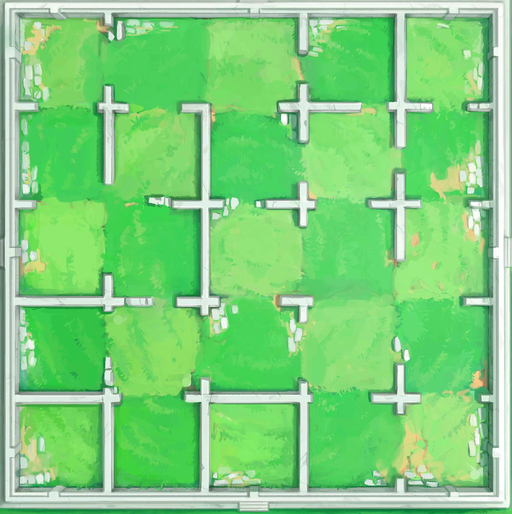
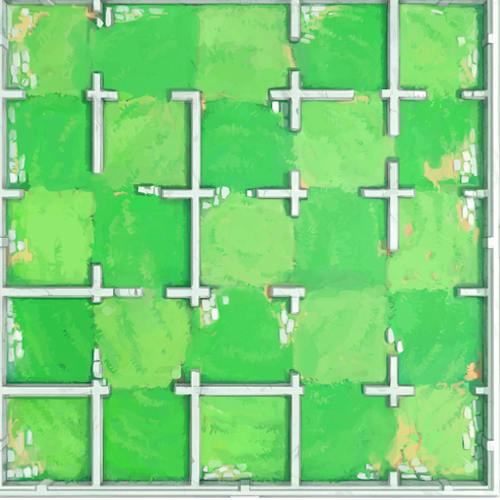
separated the board gui painting into several classes; added the refresh feature to the GUI (and checked that it works).

diff --git a/src/main/java/it/polimi/ingsw/view/clientSide/viewers/toGUI/helperPanels/utilities/BoardGeneralPanel.java b/src/main/java/it/polimi/ingsw/view/clientSide/viewers/toGUI/helperPanels/utilities/BoardGeneralPanel.java
@@ -1,0 +1,135 @@
+package it.polimi.ingsw.view.clientSide.viewers.toGUI.helperPanels.utilities;
+
+import it.polimi.ingsw.view.clientSide.viewCore.data.dataClasses.ViewCell;
+import it.polimi.ingsw.view.exceptions.WrongParametersException;
+
+import java.awt.*;
+
+public class BoardGeneralPanel extends ImagePanel {
+
+    private int xDim;
+    private int yDim;
+
+    private double xLen;
+    private double yLen;
+
+    private static class MyBuildingRepresentation{
+
+        private SubPanel[][] cellMatrix;
+        private String[][] cellStatusMatrix;
+        BoardGeneralPanel parent;
+
+        MyBuildingRepresentation(BoardGeneralPanel parent){
+            this.parent = parent;
+            cellMatrix = new SubPanel[parent.xDim][parent.yDim];
+            cellStatusMatrix = new String[parent.xDim][parent.yDim];
+        }
+
+        String getStatusAt(int x, int y){
+            return cellStatusMatrix[x][y];
+        }
+
+        String getStatusAt(ViewCell cell){
+            return getStatusAt(cell.getX(), cell.getY());
+        }
+
+        void setStatusAt(int x, int y, String status){
+            cellStatusMatrix[x][y] = status;
+        }
+
+        void setStatusAt(ViewCell cell){
+            setStatusAt(
+                    cell.getX(),
+                    cell.getY(),
+                    getCellStatusEncoded(cell)
+            );
+        }
+
+        String getCellStatusEncoded(ViewCell cell){
+            return "l"+cell.getLevel()+"D"+(cell.isDoomed()?"t":"f");
+        }
+
+        SubPanel getPanelAt(int x, int y){
+            return cellMatrix[x][y];
+        }
+
+        SubPanel getPanelAt(ViewCell cell){
+            return getPanelAt(cell.getX(), cell.getY());
+        }
+
+        void setPanelAt(int x, int y, SubPanel panel){
+            cellMatrix[x][y] = panel;
+        }
+
+        void setPanelAt(ViewCell cell){
+            setPanelAt(cell.getX(), cell.getY(), cell.toGUI());
+        }
+
+        void setCell(ViewCell cell){
+            setPanelAt(cell);
+            setStatusAt(cell);
+        }
+
+        boolean isDifferent(ViewCell cell){
+            return !getCellStatusEncoded(cell).equals(getStatusAt(cell));
+        }
+
+        void updateCell(ViewCell cell){
+            if (isDifferent(cell)){
+                System.out.println(cell.toString() + "Is different");
+                System.out.println(getStatusAt(cell));
+                parent.remove(getPanelAt(cell));
+                setCell(cell);
+                parent.addComponent(cell.getX(), cell.getY(), getPanelAt(cell));
+                System.out.println(getStatusAt(cell));
+            }
+        }
+
+    }
+
+    private MyBuildingRepresentation myBuildingRepresentation;
+
+    public void updateCell(ViewCell cell){
+        myBuildingRepresentation.updateCell(cell);
+    }
+
+    public void addComponent(int x, int y, SubPanel panel){
+        if(panel == null) return;
+        add(panel);
+        panel.setMyRapp(xLen, yLen, x*xLen, y*yLen);
+    }
+
+
+    private BoardGeneralPanel(String fileName) {
+        super(1, 1, 0, 0, fileName);
+    }
+
+    private void setXY(int x, int y){
+        xDim = x;
+        yDim = y;
+
+        xLen = ((double)1)/xDim;
+        yLen = ((double)1)/yDim;
+    }
+
+    public static BoardGeneralPanel buildBoard(int xDim, int yDim) throws WrongParametersException {
+        if (xDim!=5 || yDim != 5)
+            throw new WrongParametersException("Wrong board size!!");
+        BoardGeneralPanel ret = new BoardGeneralPanel("/img/board/boardScalata.png");
+        ret.setXY(xDim, yDim);
+        ret.myBuildingRepresentation = new MyBuildingRepresentation(ret);
+        return ret;
+    }
+
+    @Override
+    public Component add(Component c){
+        if(c==null) return null;
+        return super.add(c);
+    }
+
+    @Override
+    public void remove(Component c){
+        if(c==null) return;
+        super.remove(c);
+    }
+}

diff --git a/src/main/java/it/polimi/ingsw/view/clientSide/viewCore/data/dataClasses/ViewBoard.java b/src/main/java/it/polimi/ingsw/view/clientSide/viewCore/data/dataClasses/ViewBoard.java
@@ -3,10 +3,12 @@ package it.polimi.ingsw.view.clientSide.viewCore.data.dataClasses;
 import it.polimi.ingsw.controller.events.ServerSendDataEvent;
 import it.polimi.ingsw.model.Board;
 import it.polimi.ingsw.view.clientSide.viewCore.data.ViewObject;
+import it.polimi.ingsw.view.clientSide.viewers.toGUI.helperPanels.utilities.BoardGeneralPanel;
 import it.polimi.ingsw.view.clientSide.viewers.toGUI.helperPanels.utilities.ImagePanel;
 import it.polimi.ingsw.view.clientSide.viewers.toGUI.helperPanels.utilities.SubPanel;
 import it.polimi.ingsw.view.exceptions.NotFoundException;
 import it.polimi.ingsw.view.exceptions.WrongEventException;
+import it.polimi.ingsw.view.exceptions.WrongParametersException;
 import it.polimi.ingsw.view.exceptions.WrongViewObjectException;
 import it.polimi.ingsw.view.interfaces.Addressable;
 import org.jetbrains.annotations.NotNull;
@@ -21,6 +23,8 @@ import java.util.EventObject;
  * @author giorgio
  */
 public class ViewBoard extends ViewObject {
+
+    private BoardGeneralPanel guiPanel;
 
     private int xDim;
     private int yDim;
@@ -194,8 +198,25 @@ public class ViewBoard extends ViewObject {
      *
      * @return (representation of Object for the GI)
      */
-    public JPanel toGUI(){
-        JPanel ret = new ImagePanel(1,1,0,0, "/img/board/boardScalata.png");
+    public BoardGeneralPanel toGUI(){
+        if(guiPanel == null){
+            try {
+                guiPanel = BoardGeneralPanel.buildBoard(xDim, yDim);
+            } catch (WrongParametersException ignore) {
+                return null;
+            }
+        }
+
+        for(int i=0; i<xDim; i++) {
+            for (int j = 0; j < yDim; j++) {
+                try {
+                    guiPanel.updateCell(getCellAt(i, j));
+                } catch (NotFoundException ignore) {  }
+            }
+        }
+        return guiPanel;
+
+        /*JPanel ret = new ImagePanel(1,1,0,0, "/img/board/boardScalata.png");
         JPanel tmp;
         JPanel cellPanel;
 
@@ -216,6 +237,6 @@ public class ViewBoard extends ViewObject {
                 } catch (NotFoundException ignore) {  }
             }
         }
-        return ret;
+        return ret;*/
     }
 }

diff --git a/src/main/java/it/polimi/ingsw/view/clientSide/viewCore/data/dataClasses/ViewCell.java b/src/main/java/it/polimi/ingsw/view/clientSide/viewCore/data/dataClasses/ViewCell.java
@@ -235,24 +235,24 @@ public class ViewCell extends ViewObject {
      *
      * @return (representation of Object for the GI)
      */
-    public JPanel toGUI(){
-        boolean set = false;
-        ImagePanel ret = new ImagePanel(1, 1, 0 ,0 , "/img/board/cells/void_space.png");
+    public ImagePanel toGUI(){
+        ImagePanel ret = null;
+        String fileName = "";
 
-        if(level == 0) set = false;
+        if(isDoomed())
+            fileName += "doomed_";
+        if(level==1)
+            fileName += "single_block";
+        if(level == 2)
+            fileName += "double_block";
+        if(level == 3)
+            fileName += "triple_block";
 
-        if(level==1) ret.setBackgroundImg("/img/board/cells/single_block.png");
-        if(level == 2) ret.setBackgroundImg("/img/board/cells/double_block.png");
-        if(level == 3) ret.setBackgroundImg("/img/board/cells/triple_block.png");
-        if(isDoomed()){
-            ret.add(new ImagePanel(1, 1, 0, 0, "/img/board/cells/sized_cuple.png"));
-            set = true;
+        if(!fileName.equals("")) {
+            System.out.println(fileName);
+            ret = new ImagePanel(1, 1, 0, 0, "/img/board/cells/" + fileName + ".png");
         }
-        if(set) {
-            return ret;
-        }else{
-            return null;
-        }
+        return ret;
     }
 
     /**

diff --git a/src/main/java/it/polimi/ingsw/view/clientSide/ViewTester.java b/src/main/java/it/polimi/ingsw/view/clientSide/ViewTester.java
@@ -22,8 +22,8 @@ import java.util.*;
 
 public class ViewTester implements ViewSender {
 
-    private final static boolean addWait = true;
-    private final static boolean setDefaultChallenger = true;
+    private final static boolean addWait = false;
+    private final static boolean setDefaultChallenger = false;
 
     private Object lock = new Object();
     private View view = new View(null, null);
@@ -177,9 +177,12 @@ public class ViewTester implements ViewSender {
             CardsInformationEvent cardsInformationEvent = new CardsInformationEvent( cards, challenger, player);
 
             view.update(cardsInformationEvent);
+
+            if(setDefaultChallenger)
+                myWait();
         }
 
-        myWait();
+
         view.update((NextStatusEvent)new NextStatusEvent("Playing"));
 
         synchronized (obj) {
@@ -223,6 +226,9 @@ public class ViewTester implements ViewSender {
             ViewBoard.getBoard().getCellAt(3, 0).buildLevel();
             ViewBoard.getBoard().getCellAt(4, 0).buildLevel();
             System.out.println(ViewBoard.getBoard().toTerminal());
+            ViewBoard.getBoard().toGUI();
+            Viewer.setAllRefresh();
+            System.out.println("aggiorno la board da View");
 
         } catch (NotFoundException e) {
             e.printStackTrace();

diff --git a/src/main/java/it/polimi/ingsw/view/clientSide/viewers/toGUI/GUIViewer.java b/src/main/java/it/polimi/ingsw/view/clientSide/viewers/toGUI/GUIViewer.java
@@ -59,6 +59,10 @@ public class GUIViewer extends Viewer {
                         if (ViewStatus.getActual().equals(ViewStatus.GAME_PREPARATION)){
                             GUISelectCard.attivate((CardSelection) queued.getPayload());
                         }
+                    if (queued.getType()== ViewerQueuedEvent.ViewerQueuedEventType.REFRESH) {
+                        System.out.println("\t\tREFRESHING");
+                        SwingUtilities.updateComponentTreeUI(window);
+                    }
                 }
             });
         }
@@ -172,6 +176,10 @@ public class GUIViewer extends Viewer {
 
             if (queued.getType()== ViewerQueuedEvent.ViewerQueuedEventType.EXIT) return;
             if (queued.getType()== ViewerQueuedEvent.ViewerQueuedEventType.SET_STATUS) setStatus(queued);
+            if (queued.getType()== ViewerQueuedEvent.ViewerQueuedEventType.REFRESH) {
+                System.out.println("\t\tREFRESHING");
+                SwingUtilities.updateComponentTreeUI(window);
+            }
         }
     }
 

diff --git a/src/main/java/it/polimi/ingsw/view/clientSide/viewers/interfaces/Viewer.java b/src/main/java/it/polimi/ingsw/view/clientSide/viewers/interfaces/Viewer.java
@@ -75,6 +75,10 @@ public abstract class Viewer extends Thread{
 
     public static void setAllCardSelection(CardSelection cardSelection){ for (Viewer i: myViewers) i.setCardSelection(cardSelection); }
 
+    public static void setAllRefresh(Object payload){ for (Viewer i: myViewers) i.setRefresh(payload); }
+
+    public static void setAllRefresh(){setAllRefresh(null);}
+
     public static void sendAllMessage(ViewMessage message) { for (Viewer i: myViewers) i.sendMessage(message); }
 
     public static void exitAll(){ for (Viewer i: myViewers) i.exit(); }
@@ -93,6 +97,10 @@ public abstract class Viewer extends Thread{
 
     public void setCardSelection(CardSelection cardSelection){
         enqueue(new ViewerQueuedEvent(ViewerQueuedEvent.ViewerQueuedEventType.CARDSELECTION, cardSelection));
+    }
+
+    public void setRefresh(Object payload){
+        enqueue(new ViewerQueuedEvent(ViewerQueuedEvent.ViewerQueuedEventType.REFRESH, payload));
     }
 
     public void sendMessage(ViewMessage message){

diff --git a/src/main/java/it/polimi/ingsw/view/clientSide/viewers/toGUI/helperPanels/utilities/SubPanel.java b/src/main/java/it/polimi/ingsw/view/clientSide/viewers/toGUI/helperPanels/utilities/SubPanel.java
@@ -5,12 +5,19 @@ import java.awt.*;
 
 public class SubPanel extends JPanel {
 
-    private final double xDimRapp;
-    private final double yDimRapp;
-    private final double xPosRapp;
-    private final double yPosRapp;
+    private double xDimRapp;
+    private double yDimRapp;
+    private double xPosRapp;
+    private double yPosRapp;
 
     public SubPanel(double xDimRapp, double yDimRapp, double xPosRapp, double yPosRapp){
+        this.xDimRapp = xDimRapp;
+        this.yDimRapp = yDimRapp;
+        this.yPosRapp = yPosRapp;
+        this.xPosRapp = xPosRapp;
+    }
+
+    public void setMyRapp(double xDimRapp, double yDimRapp, double xPosRapp, double yPosRapp){
         this.xDimRapp = xDimRapp;
         this.yDimRapp = yDimRapp;
         this.yPosRapp = yPosRapp;

diff --git a/src/main/java/it/polimi/ingsw/view/clientSide/viewers/toGUI/helperPanels/skeleton/BodyPanel.java b/src/main/java/it/polimi/ingsw/view/clientSide/viewers/toGUI/helperPanels/skeleton/BodyPanel.java
@@ -50,13 +50,17 @@ public class BodyPanel extends SubPanel {
 
         }
 
-        cont++;
-        if(cont>=2){
+
+        ViewBoard.getBoard().toGUI();
+        System.out.println("aggiorno la board");
+        /*cont++;
+        if(cont>=1){
             cont = 0;
-            boardPanel.removeAll();
-            boardPanel.add(ViewBoard.getBoard().toGUI());
+            ViewBoard.getBoard().toGUI();
+           *//* boardPanel.removeAll();
+            boardPanel.add(ViewBoard.getBoard().toGUI());*//*
             System.out.println("aggiorno la board");
-        }
+        }*/
 
 
         subTurnPanel.setBounds(0, 0, (int)panelW, (int)panelH);
